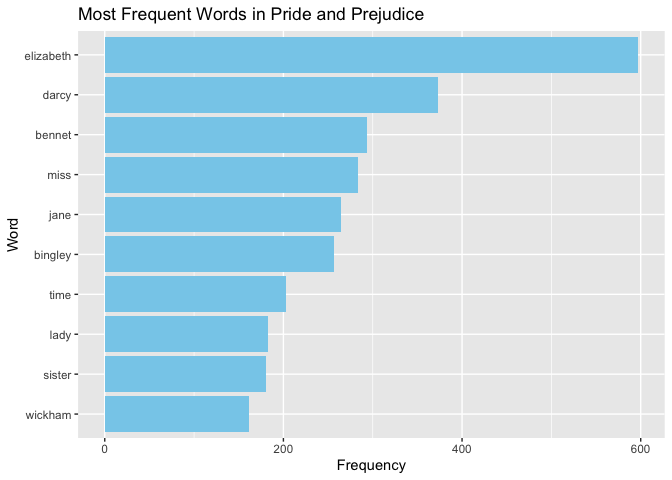
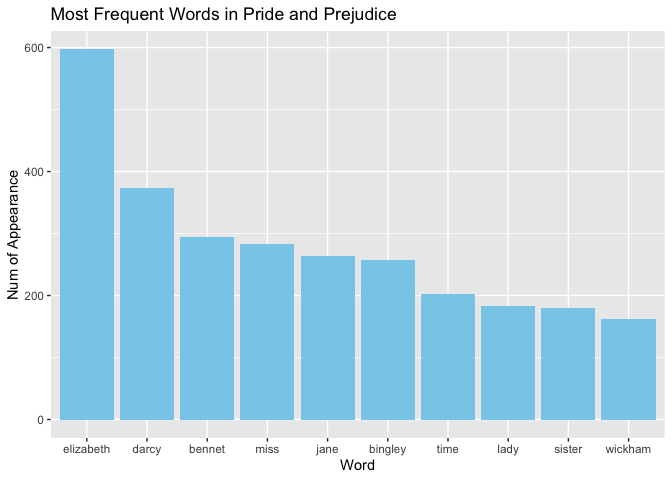
update

diff --git a/assignmentb4.md b/assignmentb4.md
@@ -50,16 +50,15 @@ clean_words <- words %>%
   anti_join(stop_words, by = "word")
 
 # Count frequency of each word
-word_count <- clean_words %>%
+word_with_count <- clean_words %>%
   count(word, sort = TRUE)
 
 # Plot the most frequent words
-ggplot(word_count[1:10, ], aes(x = reorder(word, n), y = n)) +
+ggplot(word_with_count[1:10, ], aes(x = reorder(word, -n), y = n)) +
   geom_bar(stat = "identity", fill = "skyblue") +
-  coord_flip() +
   labs(title = "Most Frequent Words in Pride and Prejudice",
        x = "Word",
-       y = "Frequency")
+       y = "Num of Appearance")
 ```
 
 ![](assignmentb4_files/figure-gfm/unnamed-chunk-2-1.png)<!-- -->
@@ -70,19 +69,21 @@ In my pig latin algorithm, I modified the original algorithm to
 something as follows: 1. For words that end with consonant sounds, all
 letters after the last vowel are placed at the beginning of the word
 sequence. 2. For words ending with vowel sounds, remove the last
-vowel(s)
+vowel(s) 3. After modification, “YAY” will be added to the end of the
+word
 
 ``` r
 #' Funtion of Converting to My Pig Latin
 #'
 #' This function aims to convert words according to a new version of Pig Latin.
 #' The conversion rules are as follows:
-#'   1. For words that end with consonant sounds, all letters after the last vowel 
+#' 1. For words that end with consonant sounds, all letters after the last vowel 
 #'      are placed at the beginning of the word sequence.
-#'   2. For words ending with vowel sounds, remove the last vowel(s)
+#' 2. For words ending with vowel sounds, remove the last vowel(s)
+#' 3. After modification, "YAY" will be added to the end of the word
 #'
 #' @param word A word to be converted.
-#' @return A string referring to the word converted to my Pig Latin.
+#' @return A return string referring to the word converted to my Pig Latin.
 #' @examples
 #' convert_to_my_pig_latin("hello") # "hellYAY"
 #' convert_to_my_pig_latin("apple") # "applYAY"
@@ -126,7 +127,7 @@ test_that("function works fine", {
 })
 ```
 
-    ## Test passed 🎊
+    ## Test passed 🥇
 
 ``` r
 test_that("function is able to handle invalid input", {
@@ -136,4 +137,4 @@ test_that("function is able to handle invalid input", {
 })
 ```
 
-    ## Test passed 🥇
+    ## Test passed 🌈
